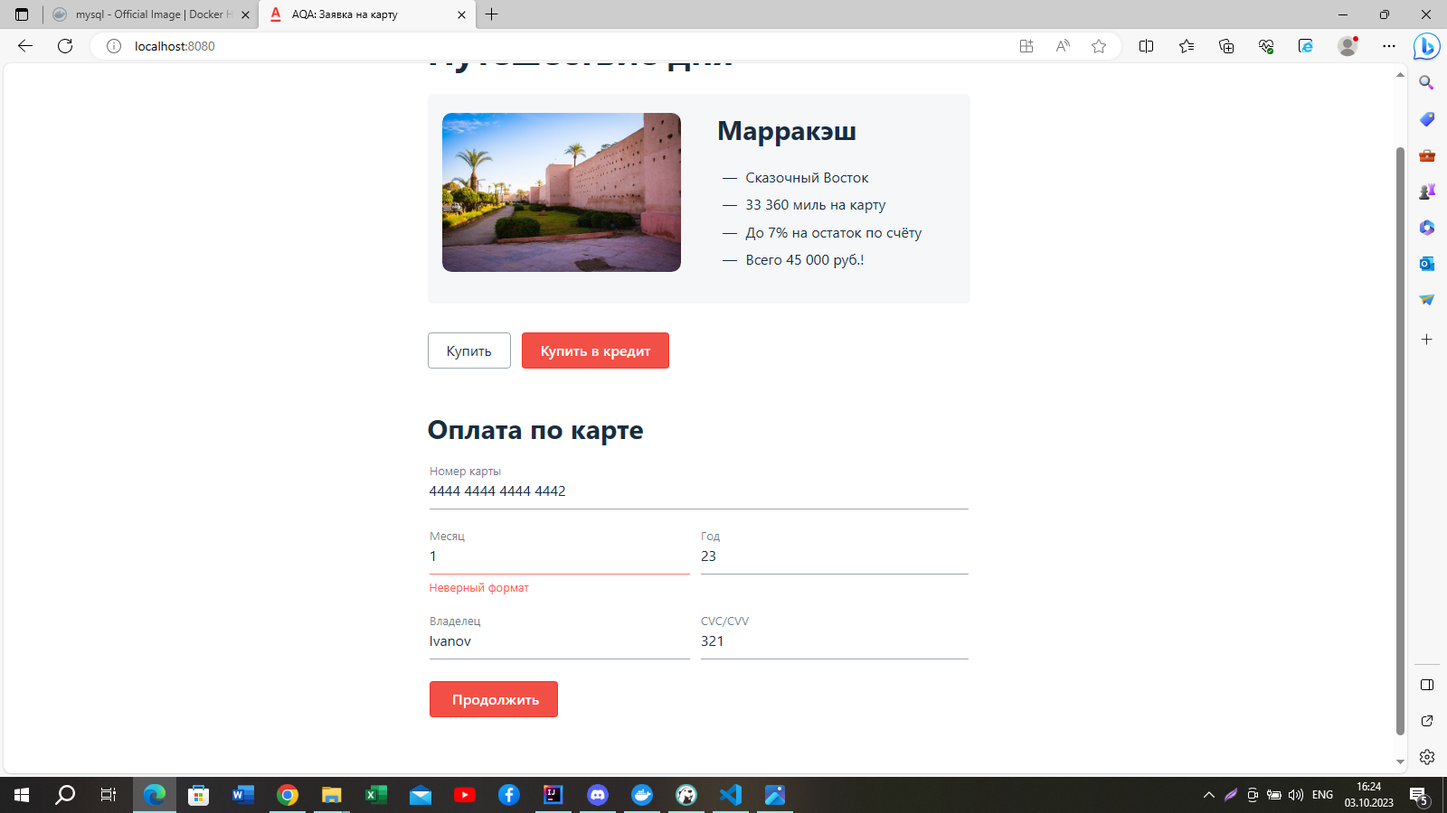
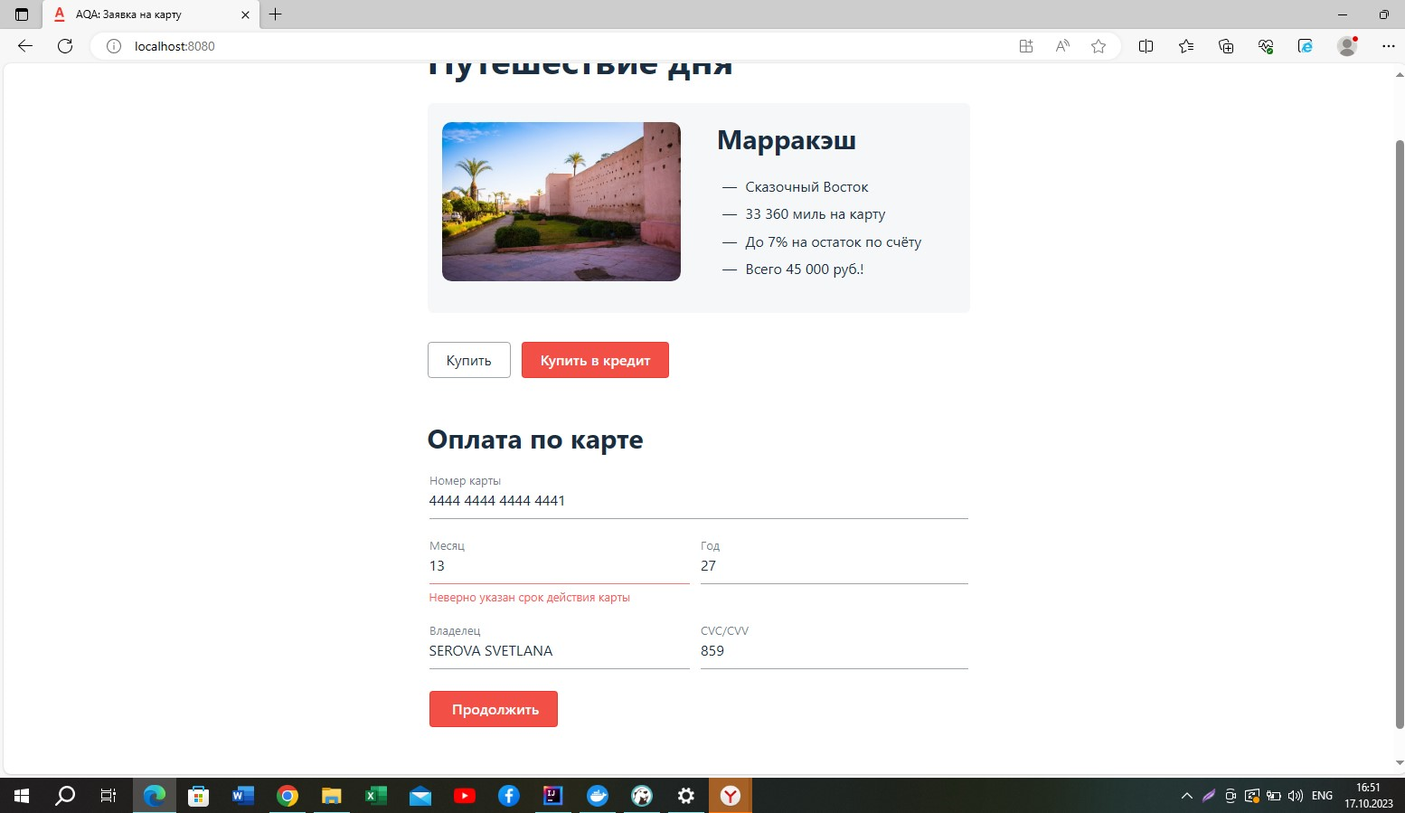
Changed plan.md

diff --git a/MyDocuments/Plan.md b/MyDocuments/Plan.md
@@ -1,113 +1,241 @@
 ![img.png](img.png)
 # План по автоматизации тестирования веб-формы сервиса покупки туров 
 
-## 1. Перечень автоматизируемых сценариев:
-### 1. Покупка тура через кнопку "Купить" на главной странице:
+## I. Перечень автоматизируемых сценариев:
+<u>Валидные входные данные полей веб-формы сервиса покупки туров:</u>
+1. Поле "НОМЕР КАРТЫ":
+* содержит 16 арабских цифр;
+* ввод букв,символов, пробелов недопустим.
+2. Поле "МЕСЯЦ":
+* содержит 2 арабских цифры;
+* допустимые цифры и их формат - 01,02,03,04,05,06,07,08,09,10,11,12, что соответствует номеру месяца в году.
+* иные числа и формат недопустим;
+* ввод месяца, предшествующий текущему месяцу, при условии, что год введен текущим, недопустим, срок карты считается истекшим.
+3. Поле "ГОД":
+* содержит 2 арабских цифры;
+* допустимые значения цифр и их формат - 23,24,25,26,27,28 (максимальный срок действия пластика от 2 до 5 лет);
+* иные числа и формат недопустим;
+4. Поле "ВЛАДЕЛЕЦ":
+* содержит только латинские буквы;
+* допустимы двойные фамилии;
+* допустимо применение специального символа "-";
+* допустим верхний и нижний регистр;
+* минимальное количество букв - 2;
+* допустим 1 пробел между именем и фамилией, между cоставляющими двойной фамилии;
+* цифр и иные специальные символы недопустимы;
+5. Поле CVC/CVV:
+* содержит 3 арабских цифры;
+* не допустимо заполнять специальными символами, буквами;
+* пробелы не используются;
+
+
+
+### 1. Покупка тура через кнопку "Купить" на главной странице: 
 * Открыть главную страницу сервиса http://localhost:8080/
 * Нажать на кнопку "Купить"
 ![img_1.png](img_1.png)
-1.1 Успешная покупка: при оплате картой с валидным номером и достаточным количеством средств на счете
-* Заполнить поля "Номер карты", "Месяц", "Год", "Владелец" и "CVC/CVV" валидными данными карты, позволяющим совершить платеж
-* Нажать на кнопку "Продолжить"
 
+Сценарий №1 "Позитивный сценарий отправки формы с валидными входными данными":
+
+* НОМЕР КАРТЫ: 4444 4444 4444 4441 (одобренная);
+* МЕСЯЦ: 02;
+* ГОД: 24;
+* ВЛАДЕЛЕЦ: IVANOV IVAN;
+* CVC/CVV: 321;
+* Нажать на кнопку "Продолжить".
+#### Ожидаемый результат: появляется сообщение: "Успешно. Операция одобрена банком"
+Статус в БД:
+Ответ от сервера - код 200, статус карты "APPROVED"
+
+![img_3.png](img_3.png)
+
+Сценарий №2 "Позитивный сценарий отправки формы с валидными входными данными (с указанием двойной фамилии)":
+* НОМЕР КАРТЫ: 4444 4444 4444 4441;
+* МЕСЯЦ: 11;
+* ГОД: 25;
+* ВЛАДЕЛЕЦ: IVANOV-KRAMSKOI OLEG;
+* CVC/CVV: 456;
+* Нажать на кнопку "Продолжить".
 #### Ожидаемый результат: появляется сообщение: "Успешно. Операция одобрена банком"
 ![img_3.png](img_3.png)
 
-1.2 Негативный сценарий покупки при оплате картой на сайте:
-* 1.2.1. Покупка тура по карте с недостаточным количеством средств на счете
-
-* Заполнить поля "Номер карты", "Месяц", "Год", "Владелец" и "CVC/CVV" валидными данными карты с недостаточным количеством средств на карте для совершения платежа.
+Сценарий №3 "Негативный сценарий по карте со статусом "отклоненная":
+* НОМЕР КАРТЫ: 4444 4444 4444 4442 (отклоненная);
+* МЕСЯЦ: 10;
+* ГОД: 25;
+* ВЛАДЕЛЕЦ: IVANOV IVAN;
+* CVC/CVV: 123
 * Нажать на кнопку "Продолжить".
-#### Ожидаемый результат: появляется сообщение: "Ошибка! Банк отказал в проведении операции"
+#### Ожидаемый результат: появляется сообщение: "Ошибка! Банк отказал в проведении операции."
+Статус в БД:
+Ответ от сервера - код 200, статус карты "DECLINED".
+
 ![img_2.png](img_2.png)
-1.2.2. Все поля формы оставить пустыми:
+
+Сценарий №4 "Негативный сценарий с пустыми полями формы":
 * Оставить все поля формы незаполненными.
 * Нажать на кнопку "Продолжить".
-#### Ожидаемый результат: под каждым полем появляется сообщение:"Поле обязательно для заполнения" и "Неверный формат".
-![img_4.png](img_4.png)
-1.2.3. Заполнить поле "Номер карты" невалидными значениями:
-* Указать в поле "Номер карты" невалидное значение - 14 цифр.
-* Заполнить остальные поля валидными данными.
+#### Ожидаемый результат: под каждым полем появляется сообщение:"Поле обязательно для заполнения".
+
+Сценарий №5 "Негативный сценарий  с невалидным значением в поле "Номер карты" (указать 14 цифр):
+* НОМЕР КАРТЫ: 4444 4444 4444 44;
+* МЕСЯЦ: 01;
+* ГОД: 24;
+* ВЛАДЕЛЕЦ: ZIMENEVA OLGA;
+* CVC/CVV: 698
 * Нажать на кнопку "Продолжить".
-#### Ожидаемый результат: под полем "Номер карты" появляется сообщение:"Неверный формат".
-* Оставить пустым поле "Номер карты".
-* Заполнить остальные поля валидными данными.
+#### Ожидаемый результат: под полем "Номер карты" появляется сообщение: "Неверный формат".
+
+Сценарий №6 "Негативный сценарий с пустым полем Номер Карты":
+* НОМЕР КАРТЫ:                 
+* МЕСЯЦ: 04;
+* ГОД: 26;
+* ВЛАДЕЛЕЦ: DEMIDOV OLEG;
+* CVC/CVV: 954
 * Нажать на кнопку "Продолжить".
-#### Ожидаемый результат: появляется сообщение:"Поле обязательно для заполнения".
-1.2.4. Заполнить поле "Месяц" невалидными значениями: 
-* В поле "Месяц" вести формат однозначного числа - 1.
-* Заполнить остальные поля валидными данными.
+#### Ожидаемый результат: под полем "Номер карты" появляется сообщение: "Поле обязательно для заполнения".
+
+Сценарий №7 "Негативный сценарий с пустым полем "Месяц": 
+* НОМЕР КАРТЫ: 4444 4444 4444 4441;
+* МЕСЯЦ: 
+* ГОД: 25;
+* ВЛАДЕЛЕЦ: KONOV VLAD;
+* CVC/CVV: 456
 * Нажать на кнопку "Продолжить".
-#### Ожидаемый результат: под полем "Месяц" появляется сообщение:"Неверный формат".
-![img_5.png](img_5.png)
-* Оставить поле "Месяц" пустым.
-* Заполнить остальные поля валидными данными.
-* Нажать на кнопку "Продолжить".
-#### Ожидаемый результат: под полем "Месяц" появляется сообщение:"Поле обязательно для заполнения"
-* В поле "Месяц" ввести значение "13".
-* Заполнить остальные поля валидными данными.
+#### Ожидаемый результат: под полем "Месяц" появляется сообщение:"Поле обязательно для заполнения".
+
+Сценарий №8 "Негативный сценарий с невалидным значением в поле "Месяц" (месяц - 13):
+* НОМЕР КАРТЫ: 4444 4444 4444 4441;
+* МЕСЯЦ: 13;
+* ГОД: 27;
+* ВЛАДЕЛЕЦ: SEROVA SVETLANA;
+* CVC/CVV: 859
 * Нажать на кнопку "Продолжить".
 #### Ожидаемый результат: под полем "Месяц" появляется сообщение:"Неверно указан срок действия карты"
-![img_6.png](img_6.png)
-* В поле "Месяц" ввести 00.
-* Заполнить остальные поля валидными данными.
+![img_5.png](img_5.png)
+
+Сценарий №9 "Негативный сценарий с невалидным значением в поле "Месяц" (месяц - 00)":
+* НОМЕР КАРТЫ: 4444 4444 4444 4441;
+* МЕСЯЦ: 00;
+* ГОД: 28;
+* ВЛАДЕЛЕЦ: GALICH VASILII;
+* CVC/CVV: 127
 * Нажать на кнопку "Продолжить".
-#### Ожидаемый результат: под полем "Месяц" появляется сообщение:"Неверный формат".
-1.2.5. Заполнить поле "Год" невалидными значениями:
-* В поле год ввести однозначное число - 1.
-* Заполнить остальные поля валидными данными.
-* Нажать на кнопку "Продолжить". 
+#### Ожидаемый результат: под полем "Месяц" появляется сообщение: "Неверный формат".
+
+Сценарий №10 "Негативный сценарий с невалидным значением в поле "Год" (год - 1):
+* НОМЕР КАРТЫ: 4444 4444 4444 4441;
+* МЕСЯЦ: 03;
+* ГОД: 1;
+* ВЛАДЕЛЕЦ: VASINA EKETERINA;
+* CVC/CVV: 874
+* Нажать на кнопку "Продолжить".
 #### Ожидаемый результат: под полем "Год" появляется сообщение:"Неверный формат"
 ![img_7.png](img_7.png).
-* Оставить поле "Год" пустым.
-* Заполнить остальные поля валидными данными.
+
+Сценарий №11 "Негативный сценарий с пустым полем "Год":
+* НОМЕР КАРТЫ: 4444 4444 4444 4441;
+* МЕСЯЦ: 08;
+* ГОД: 
+* ВЛАДЕЛЕЦ: PROSHKINA VASILISA;
+* CVC/CVV: 985
 * Нажать на кнопку "Продолжить".
-#### Ожидаемый результат: под полем "Год" появляется сообщение:"Неверный формат".
-1.2.6. Заполнить поле "Владелец" невалидными значениями:
-* Оставить поле "Владелец" пустым.
-* Заполнить остальные поля валидными данными.
-* Нажать кнопку "Продолжить".
+#### Ожидаемый результат: под полем "Год" появляется сообщение:"Поле обязательно для заполнения".
+
+Сценарий №12 "Негативный сценарий с указанием карты, срок действия которой истек":
+* НОМЕР КАРТЫ: 4444 4444 4444 4441;
+* МЕСЯЦ: 01
+* ГОД: 22;
+* ВЛАДЕЛЕЦ: PETROV ROMAN
+* CVC/CVV: 554
+* Нажать на кнопку "Продолжить".
+* #### Ожидаемый результат: под полем "Год" появляется сообщение:"Истек срок действия карты".
+![img_12.png](img_12.png)
+
+Сценарий №13 "Негативный сценарий с пустым полем "Владелец":
+* НОМЕР КАРТЫ: 4444 4444 4444 4441;
+* МЕСЯЦ: 03;
+* ГОД: 28;
+* ВЛАДЕЛЕЦ:
+* CVC/CVV: 888
+* Нажать на кнопку "Продолжить".
 #### Ожидаемый результат: под полем "Владелец" появляется сообщение: "Поле обязательно для заполнения".
 ![img_8.png](img_8.png)
-* В поле "Владелец" ввести цифры 123. 
-* Заполнить остальные поля валидными данными.
-* Нажать кнопку "Продолжить".
+
+Сценарий №14 "Негативный сценарий с невалидным значением в поле "Владелец" (цифры): 
+* НОМЕР КАРТЫ: 4444 4444 4444 4441;
+* МЕСЯЦ: 04;
+* ГОД: 27;
+* ВЛАДЕЛЕЦ:123
+* CVC/CVV: 444
+* Нажать на кнопку "Продолжить".
 #### Ожидаемый результат: под полем "Владелец" появляется сообщение:"Неверный формат".
-* В поле "Владелец" ввести кириллицу - "Сидоров".
-* Заполнить остальные поля валидными данными.
-* Нажать кнопку "Продолжить".
+
+Сценарий №15 "Негативный сценарий с невалидным значением в поле "Владелец" (кириллица - "СИДОРОВ ПЕТР"):
+* НОМЕР КАРТЫ: 4444 4444 4444 4441;
+* МЕСЯЦ: 08;
+* ГОД: 26;
+* ВЛАДЕЛЕЦ:СИДОРОВ ПЕТР
+* CVC/CVV: 111
+* Нажать на кнопку "Продолжить".
+#### Ожидаемый результат: под полем "Владелец" появляется сообщение: "Неверный формат".
+
+Сценарий №16 "Негативный сценарий с невалидным значением в поле "Владелец" (с одной буквой)
+* НОМЕР КАРТЫ: 4444 4444 4444 4441;
+* МЕСЯЦ: 07;
+* ГОД: 24;
+* ВЛАДЕЛЕЦ: А
+* CVC/CVV: 154
+* Нажать на кнопку "Продолжить".
+#### Ожидаемый результат: под полем "Владелец" появляется сообщение: "Неверный формат".
+
+Сценарий №17 "Негативный сценарий с невалидным значением в поле "Владелец" (только пробелы)
+* НОМЕР КАРТЫ: 4444 4444 4444 4441;
+* МЕСЯЦ: 11;
+* ГОД: 25;
+* ВЛАДЕЛЕЦ:__________;
+* CVC/CVV: 021
+* Нажать на кнопку "Продолжить".
 #### Ожидаемый результат: под полем "Владелец" появляется сообщение:"Неверный формат".
-1.2.7. Заполнить поле "CVC/CVV" невалидными значениями:
-* Поле "CVC/CVV" оставить пустым.
-* Заполнить остальные поля валидными данными.
-* Нажать кнопку "Продолжить".
+
+Сценарий №18 "Негативный сценарий с пустым полем "CVC/CVV"":
+* НОМЕР КАРТЫ: 4444 4444 4444 4441;
+* МЕСЯЦ: 12;
+* ГОД: 24;
+* ВЛАДЕЛЕЦ: ZYEV DENIS;
+* CVC/CVV: 
+* Нажать на кнопку "Продолжить"
 #### Ожидаемый результат: под полем "CVC/CVV" появляется сообщение: "Поле обязательно для заполнения"
-* В поле "CVC/CVV" ввести 2.
-* Заполнить остальные поля валидными данными.
+
+Сценарий №19 "Негативный сценарий с невалидным значением в поле "CVC/CVV":
+* НОМЕР КАРТЫ: 4444 4444 4444 4441;
+* МЕСЯЦ: 11;
+* ГОД: 25;
+* ВЛАДЕЛЕЦ: JIDKOV STANISLAV;
+* CVC/CVV: 2
 * Нажать кнопку "Продолжить".
 #### Ожидаемый результат: gод полем "CVC/CVV" появляется сообщение: "Неверный формат".
-* В поле "CVC/CVV" ввести 22.
-* Заполнить остальные поля валидными данными.
+![img_13.png](img_13.png)
+
+Сценарий №20 "Негативный сценарий с невалидным значением в поле "CVC/CVV" (специальные символы):
+* НОМЕР КАРТЫ: 4444 4444 4444 4441;
+* МЕСЯЦ: 10;
+* ГОД: 26;
+* ВЛАДЕЛЕЦ: ZVETAEVA IRINA;
+* CVC/CVV: &^*
 * Нажать кнопку "Продолжить".
 #### Ожидаемый результат: под полем "CVC/CVV" появляется сообщение: "Неверный формат".
-* В поле "CVC/CVV" ввести 000.
-* Заполнить остальные поля валидными данными.
-* Нажать кнопку "Продолжить".
-#### Ожидаемый результат: под полем "CVC/CVV" появляется сообщение: "Неверный формат".
+
 
 ### 2. Покупка тура через кнопку "Купить в кредит" с главной страницы
 * Открыть главную страницу сервиса http://localhost:8080/
 * Нажать кнопку "Купить в кредит".
 ![img_9.png](img_9.png)
-2.1 Успешная покупка через кнопку "Покупка в кредит" при оплате картой с достаточным кредитным лимитом
-* Заполнить все поля валидными данными карты с достаточным количеством средств на счете.
-* Нажать кнопку "Продолжить".
-#### Ожидаемый результат: появляется сообщение "Успешно. Операция одобрена банком".
-![img_10.png](img_10.png)
-2.2 Негативный сценарий покупка тура в кредит:
-#### Алгоритм действий одинаков со сценарием при покупке тура через кнопку "Купить"  (смотреть 1.2.1 - 1.2.7).
 
-## 2. Перечень используемых инструментов с обоснованием выбора
+_Повторить тестовые действия по алгоритму сценариев № 1-20._
+* _Ожидаемый результат: такой же, что при тестировании формы через вкладку "Купить"._ 
+
+## II. Перечень используемых инструментов с обоснованием выбора
 
 1. IntelliJ IDEA - система программных средств для создания проектов на разных языках программирования, послужит для написания тестирования кода.
 
@@ -127,13 +255,13 @@
 
 9. Lombok - это библиотека для сокращения кода в классах и расширения функциональности языка Java.
 
-## 3.Перечень и описание возможных рисков при автоматизации
+## III.Перечень и описание возможных рисков при автоматизации
 1. Проблемы с запуском приложения (остуствие достаточных навыков).
 2. Проблемы с подключением к БД.
 3. Сложность в нахождении css-селекторов.
 4. Трудности с написанием тестов.
 
-## 4. Интервальная оценка с учётом рисков (в часах)
+## IV. Интервальная оценка с учётом рисков (в часах)
 1. Подготовительный этап настройки структуры проекта, клонирования исходников - 4 часа.
 2. Запуск jar файла, подключение к БД - 48 часов.
 3. Разработка плана тестирования - 48 часа. 
@@ -142,10 +270,10 @@
 6. Подготовка отчетной документации по итогам тестирования - 72 часа.
 7. Время на решение проблем, возникших в процессе автоматизации - 10 часов.
 
-## 5. Планируемые даты сдачи дипломного проекта
-1. Сдача плана тестирования - до 05.10.2023
-2. Сдача на проверку автотестов - 17.10.2023 
-3. Сдача документ по итогам тестирования - 20.10.2023
+## V. Планируемые даты сдачи дипломного проекта
+1. Сдача плана тестирования - до 20.10.2023
+2. Сдача на проверку автотестов - 07.11.2023 
+3. Сдача документ по итогам тестирования - 20.11.2023
 
 
 
